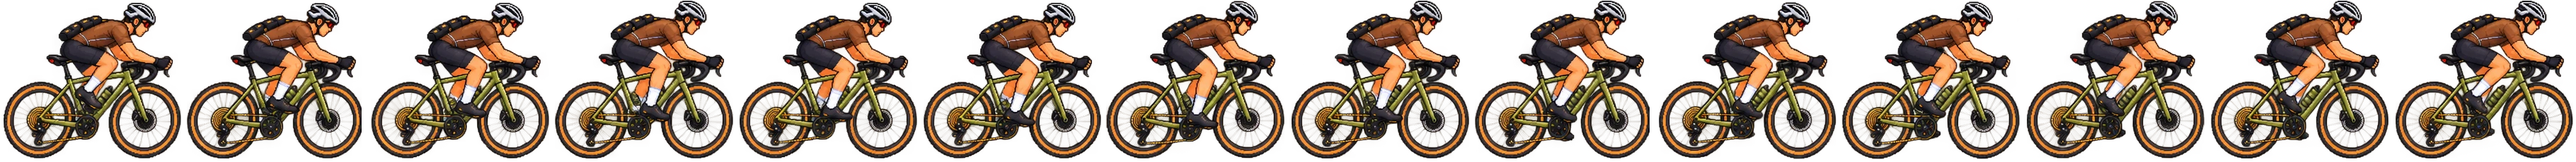
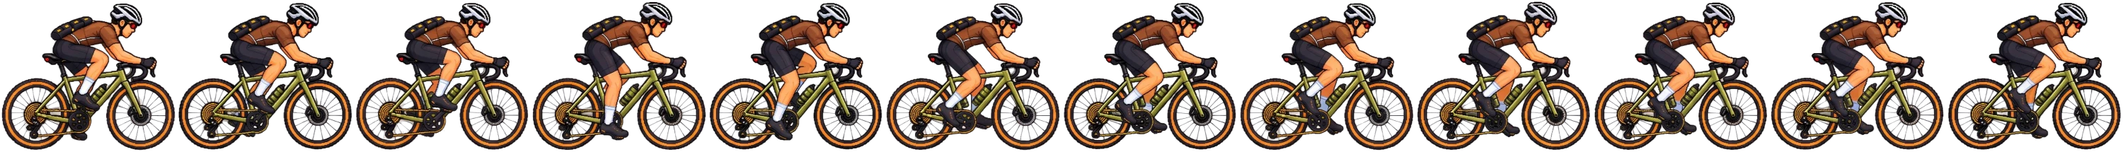
Use the new rider sheet, placing frames by crank angle
The new sheet's 12 frames are spread unevenly round the pedal stroke, so
each is tagged with the crank position it shows and the closest is drawn.

diff --git a/src/render.js b/src/render.js
@@ -161,16 +161,17 @@ function drawRoad(c, state, course, scenes) {
   }
 }
 
-// The rider is a sheet of frames covering one turn of the cranks, starting with the near
-// pedal at the top. Every frame is the same size with the bike in the same place.
+// The rider is a sheet of frames, all the same size with the bike in the same place. They
+// are not evenly spread round the pedal stroke, so each is listed with the crank position
+// it shows (in turns, 0 = near pedal at the top) and the closest one is drawn.
 const SPRITE = {
   src: 'assets/rider.webp',
-  frames: 14,
-  w: 260,
-  h: 230,
-  hub: [56, 170],    // rear hub within a frame
-  wheelbase: 146.8,
-  wheelR: 56,        // hub to the bottom of the tyre
+  turns: [15, 38, 50, 195, 215, 283, 296, 310, 316, 322, 331, 342].map((deg) => deg / 360),
+  w: 250,
+  h: 215,
+  hub: [52, 161],    // rear hub within a frame
+  wheelbase: 146.3,
+  wheelR: 52,        // hub to the bottom of the tyre
   spokeR: 40,
 };
 const RIDER_WHEELBASE = 78; // on screen, in buffer pixels
@@ -189,7 +190,16 @@ function drawRider(c, state, course) {
   if (!riderSheet) return;
   const { w, h, hub, wheelbase, wheelR, spokeR } = SPRITE;
   const k = RIDER_WHEELBASE / wheelbase;
-  const frame = Math.floor(mod(state.crank, 1) * SPRITE.frames);
+  const turn = mod(state.crank, 1);
+  let frame = 0;
+  let nearest = 1;
+  SPRITE.turns.forEach((t, i) => {
+    const d = Math.abs(mod(turn - t + 0.5, 1) - 0.5);
+    if (d < nearest) {
+      nearest = d;
+      frame = i;
+    }
+  });
 
   c.save();
   c.translate(RIDER_X, ROAD_Y);
